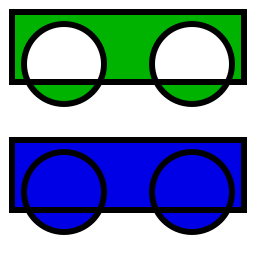
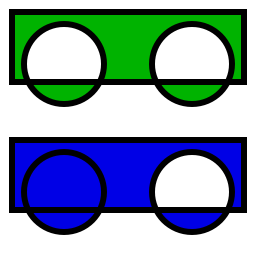
[libcg]add new sub path API

Changed region(s): [[0.5938, 0.5938, 0.9062, 0.8125]]

diff --git a/src/cg.c b/src/cg.c
@@ -469,6 +469,7 @@ struct cg_path_t * cg_path_create(void)
 	path->num_points = 0;
 	path->num_contours = 0;
 	path->num_curves = 0;
+	path->sub_path = 0;
 	path->start_point = (struct cg_point_t){0.0f, 0.0f};
 	cg_array_init(path->elements);
 	return path;
@@ -501,7 +502,7 @@ void cg_path_get_current_point(struct cg_path_t * path, float * x, float * y)
 {
 	float xx = 0.0f;
 	float yy = 0.0f;
-	if(path->num_points > 0)
+	if(path->num_points > 0 && !path->sub_path)
 	{
 		xx = path->elements.data[path->elements.size - 1].point.x;
 		yy = path->elements.data[path->elements.size - 1].point.y;
@@ -524,24 +525,38 @@ static union cg_path_element_t * cg_path_add_command(struct cg_path_t * path, en
 	return elements + 1;
 }
 
+void cg_path_new_sub_path(struct cg_path_t * path)
+{
+	path->sub_path = 1;
+}
+
 void cg_path_move_to(struct cg_path_t * path, float x, float y)
 {
 	union cg_path_element_t * elements = cg_path_add_command(path, CG_PATH_COMMAND_MOVE_TO, 1);
 	elements[0].point = (struct cg_point_t){x, y};
 	path->start_point = (struct cg_point_t){x, y};
 	path->num_contours += 1;
+	path->sub_path = 0;
 }
 
 void cg_path_line_to(struct cg_path_t * path, float x, float y)
 {
+	if(path->sub_path)
+	{
+		cg_path_move_to(path, x, y);
+		return;
+	}
 	if(path->elements.size == 0)
 		cg_path_move_to(path, 0, 0);
 	union cg_path_element_t * elements = cg_path_add_command(path, CG_PATH_COMMAND_LINE_TO, 1);
 	elements[0].point = (struct cg_point_t){x, y};
+	path->sub_path = 0;
 }
 
 void cg_path_quad_to(struct cg_path_t * path, float x1, float y1, float x2, float y2)
 {
+	if(path->elements.size == 0 || path->sub_path)
+		cg_path_move_to(path, 0, 0);
 	float current_x, current_y;
 	cg_path_get_current_point(path, &current_x, &current_y);
 	float cp1x = 2.f / 3.f * x1 + 1.f / 3.f * current_x;
@@ -551,15 +566,17 @@ void cg_path_quad_to(struct cg_path_t * path, float x1, float y1, float x2, floa
 	cg_path_cubic_to(path, cp1x, cp1y, cp2x, cp2y, x2, y2);
 }
 
+
 void cg_path_cubic_to(struct cg_path_t * path, float x1, float y1, float x2, float y2, float x3, float y3)
 {
-	if(path->elements.size == 0)
+	if(path->elements.size == 0 || path->sub_path)
 		cg_path_move_to(path, 0, 0);
 	union cg_path_element_t * elements = cg_path_add_command(path, CG_PATH_COMMAND_CUBIC_TO, 3);
 	elements[0].point = (struct cg_point_t){x1, y1};
 	elements[1].point = (struct cg_point_t){x2, y2};
 	elements[2].point = (struct cg_point_t){x3, y3};
 	path->num_curves += 1;
+	path->sub_path = 0;
 }
 
 static inline void cg_matrix_map(struct cg_matrix_t * m, float x, float y, float * xx, float * yy)
@@ -701,6 +718,7 @@ void cg_path_close(struct cg_path_t * path)
 		return;
 	union cg_path_element_t * elements = cg_path_add_command(path, CG_PATH_COMMAND_CLOSE, 1);
 	elements[0].point = path->start_point;
+	path->sub_path = 0;
 }
 
 void cg_path_reserve(struct cg_path_t * path, int count)
@@ -715,6 +733,7 @@ void cg_path_reset(struct cg_path_t * path)
 	path->num_points = 0;
 	path->num_contours = 0;
 	path->num_curves = 0;
+	path->sub_path = 0;
 }
 
 void cg_path_add_rectangle(struct cg_path_t * path, float x, float y, float w, float h)
@@ -791,7 +810,7 @@ void cg_path_add_arc(struct cg_path_t * path, float cx, float cy, float r, float
 	float ax = cx + cosf(a) * r;
 	float ay = cy + sinf(a) * r;
 	cg_path_reserve(path, 2 + 4 * (seg_n > 0 ? seg_n : 1));
-	if(path->elements.size == 0)
+	if(path->elements.size == 0 || path->sub_path)
 		cg_path_move_to(path, ax, ay);
 	else
 		cg_path_line_to(path, ax, ay);
@@ -825,6 +844,7 @@ void cg_path_add_path(struct cg_path_t * path, struct cg_path_t * source, struct
 		path->num_points += source->num_points;
 		path->num_contours += source->num_contours;
 		path->num_curves += source->num_curves;
+		path->sub_path = source->sub_path;
 		return;
 	}
 	struct cg_path_iterator_t it;
@@ -1106,6 +1126,7 @@ struct cg_path_t * cg_path_clone(struct cg_path_t * path)
 	clone->num_points = path->num_points;
 	clone->num_contours = path->num_contours;
 	clone->num_curves = path->num_curves;
+	clone->sub_path = path->sub_path;
 	return clone;
 }
 
@@ -3248,6 +3269,11 @@ void cg_arc_negative(struct cg_ctx_t * ctx, float cx, float cy, float r, float a
 void cg_new_path(struct cg_ctx_t * ctx)
 {
 	cg_path_reset(ctx->path);
+}
+
+void cg_new_sub_path(struct cg_ctx_t * ctx)
+{
+	cg_path_new_sub_path(ctx->path);
 }
 
 void cg_close_path(struct cg_ctx_t * ctx)

diff --git a/examples/main.c b/examples/main.c
@@ -341,8 +341,10 @@ static void test_fill_style(const char * filename)
 	cg_set_line_width(ctx, 6);
 
 	cg_rectangle(ctx, 12, 12, 232, 70);
-	cg_circle(ctx, 64, 64, 40);
-	cg_circle(ctx, 192, 64, 40);
+	cg_new_sub_path(ctx);
+	cg_arc(ctx, 64, 64, 40, 0, 2 * M_PI);
+	cg_new_sub_path(ctx);
+	cg_arc_negative(ctx, 192, 64, 40, 0, -2 * M_PI);
 	cg_set_fill_rule(ctx, CG_FILL_RULE_EVEN_ODD);
 	cg_set_source_rgb(ctx, 0, 0.7, 0);
 	cg_fill_preserve(ctx);
@@ -352,8 +354,10 @@ static void test_fill_style(const char * filename)
 	cg_save(ctx);
 	cg_translate(ctx, 0, 128);
 	cg_rectangle(ctx, 12, 12, 232, 70);
-	cg_circle(ctx, 64, 64, 40);
-	cg_circle(ctx, 192, 64, 40);
+	cg_new_sub_path(ctx);
+	cg_arc(ctx, 64, 64, 40, 0, 2 * M_PI);
+	cg_new_sub_path(ctx);
+	cg_arc_negative(ctx, 192, 64, 40, 0, -2 * M_PI);
 	cg_set_fill_rule(ctx, CG_FILL_RULE_NON_ZERO);
 	cg_set_source_rgb(ctx, 0, 0, 0.9);
 	cg_fill_preserve(ctx);

diff --git a/src/cg.h b/src/cg.h
@@ -120,6 +120,7 @@ struct cg_path_t {
 	int num_points;
 	int num_contours;
 	int num_curves;
+	int sub_path;
 	struct cg_point_t start_point;
 	struct {
 		union cg_path_element_t * data;
@@ -256,6 +257,7 @@ void cg_path_destroy(struct cg_path_t * path);
 struct cg_path_t * cg_path_reference(struct cg_path_t * path);
 int cg_path_get_elements(struct cg_path_t * path, union cg_path_element_t ** elements);
 void cg_path_get_current_point(struct cg_path_t * path, float * x, float * y);
+void cg_path_new_sub_path(struct cg_path_t * path);
 void cg_path_move_to(struct cg_path_t * path, float x, float y);
 void cg_path_line_to(struct cg_path_t * path, float x, float y);
 void cg_path_quad_to(struct cg_path_t * path, float x1, float y1, float x2, float y2);
@@ -355,6 +357,7 @@ void cg_circle(struct cg_ctx_t * ctx, float cx, float cy, float r);
 void cg_arc(struct cg_ctx_t * ctx, float cx, float cy, float r, float a0, float a1);
 void cg_arc_negative(struct cg_ctx_t * ctx, float cx, float cy, float r, float a0, float a1);
 void cg_new_path(struct cg_ctx_t * ctx);
+void cg_new_sub_path(struct cg_ctx_t * ctx);
 void cg_close_path(struct cg_ctx_t * ctx);
 void cg_clip(struct cg_ctx_t * ctx);
 void cg_clip_preserve(struct cg_ctx_t * ctx);